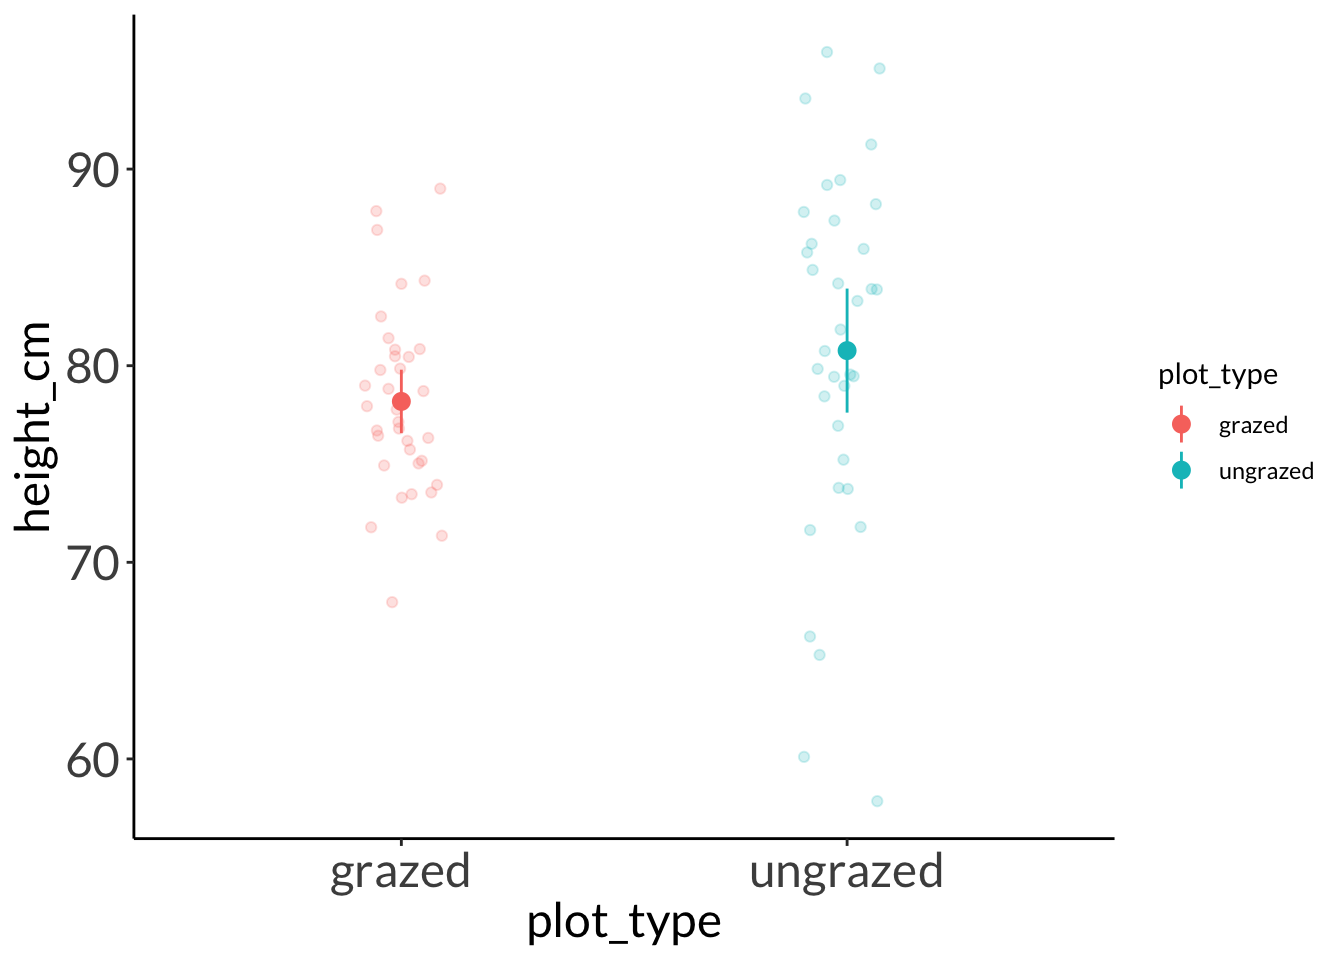
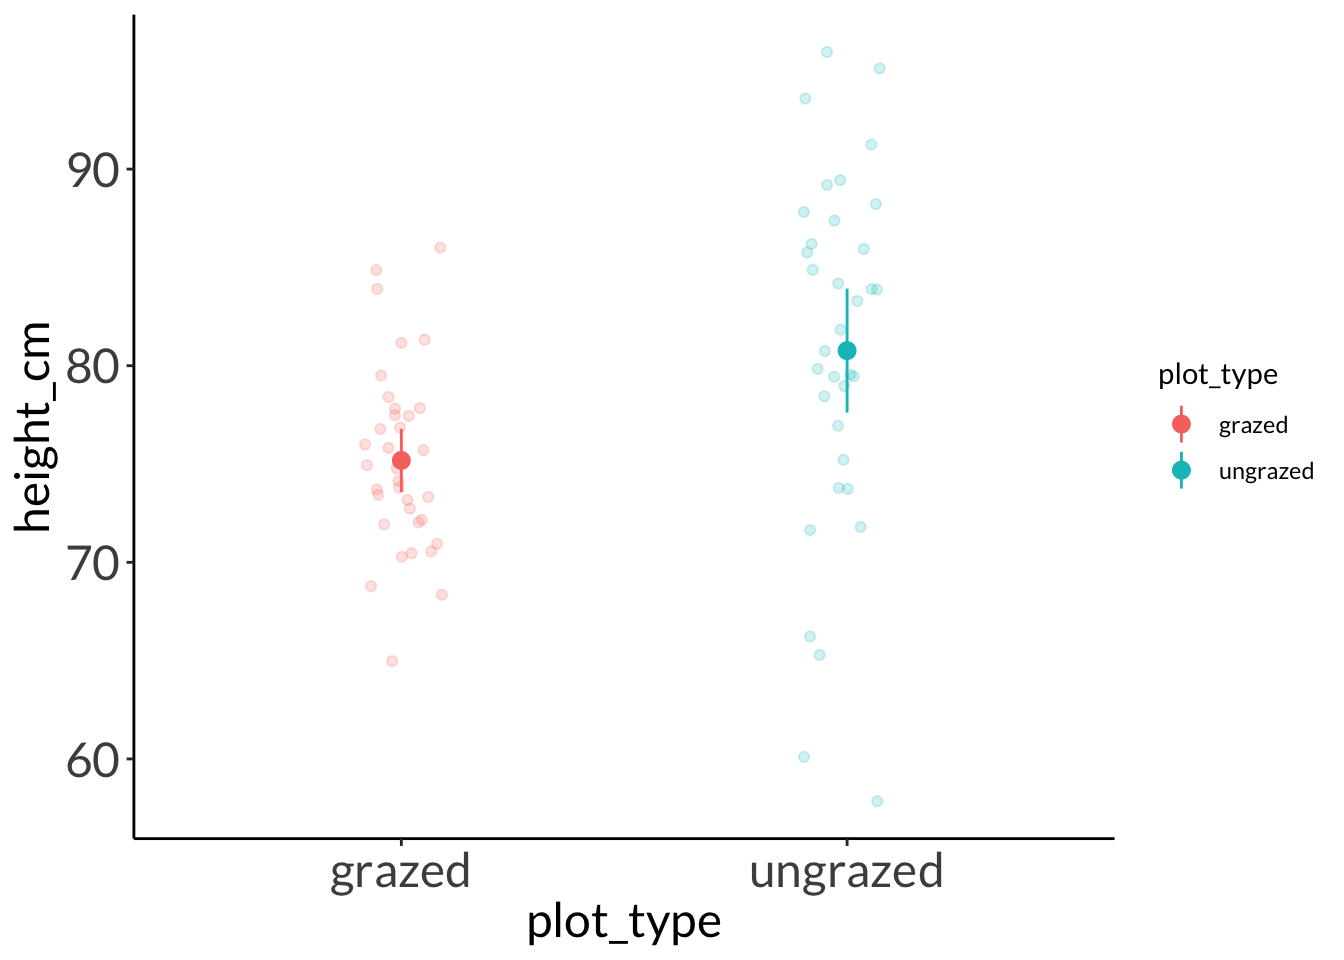
now maybe done with week 4?

Changed region(s): [[0.25, 0.3438, 0.3438, 0.5938], [0.2812, 0.2812, 0.3125, 0.3125]]

diff --git a/docs/lecture/lecture_week-04.html b/docs/lecture/lecture_week-04.html
@@ -353,13 +353,13 @@ SE_{\bar{y_A} - \bar{y_B}} = \sqrt{\frac{s_A^2}{n_A}+\frac{s_B^2}{n_B}}
     F test to compare two variances
 
 data:  weight_g by sun_level
-F = 0.30386, num df = 32, denom df = 32, p-value = 0.001146
+F = 0.27041, num df = 32, denom df = 32, p-value = 0.0003828
 alternative hypothesis: true ratio of variances is not equal to 1
 95 percent confidence interval:
- 0.1500705 0.6152302
+ 0.1335533 0.5475161
 sample estimates:
 ratio of variances 
-         0.3038551 </code></pre>
+         0.2704119 </code></pre>
 </div>
 <details class="code-fold">
 <summary>Code</summary>
@@ -372,13 +372,13 @@ ratio of variances
     Welch Two Sample t-test
 
 data:  weight_g by sun_level
-t = -5.3652, df = 49.803, p-value = 2.102e-06
+t = -5.832, df = 48.127, p-value = 4.486e-07
 alternative hypothesis: true difference in means between group shaded and group sunny is not equal to 0
 95 percent confidence interval:
- -25.77569 -11.73252
+ -26.75666 -13.03796
 sample estimates:
 mean in group shaded  mean in group sunny 
-            129.3133             148.0675 </code></pre>
+            132.3540             152.2513 </code></pre>
 </div>
 </div>
 </section>
@@ -454,13 +454,13 @@ NOTE: n is number in *each* group</code></pre>
     F test to compare two variances
 
 data:  weight_g by compost_bin
-F = 2.4378, num df = 33, denom df = 33, p-value = 0.01241
+F = 1.9613, num df = 33, denom df = 33, p-value = 0.0571
 alternative hypothesis: true ratio of variances is not equal to 1
 95 percent confidence interval:
- 1.217517 4.881286
+ 0.9795004 3.9270284
 sample estimates:
 ratio of variances 
-          2.437837 </code></pre>
+          1.961256 </code></pre>
 </div>
 <details class="code-fold">
 <summary>Code</summary>
@@ -473,13 +473,13 @@ ratio of variances
     Welch Two Sample t-test
 
 data:  weight_g by compost_bin
-t = -3.731, df = 56.174, p-value = 0.0004462
+t = -5.5277, df = 59.708, p-value = 7.52e-07
 alternative hypothesis: true difference in means between group citrus and group non_citrus is not equal to 0
 95 percent confidence interval:
- -27.99445  -8.43583
+ -31.10719 -14.57482
 sample estimates:
     mean in group citrus mean in group non_citrus 
-                140.8332                 159.0483 </code></pre>
+                139.0542                 161.8952 </code></pre>
 </div>
 </div>
 </section>
@@ -545,7 +545,7 @@ mean in group a mean in group b
 <summary>Code</summary>
 <div class="sourceCode cell-code" id="cb20"><pre class="sourceCode r code-with-copy"><code class="sourceCode r"><span id="cb20-1"><a href="#cb20-1" aria-hidden="true" tabindex="-1"></a><span class="fu">set.seed</span>(<span class="dv">1</span>)</span>
 <span id="cb20-2"><a href="#cb20-2" aria-hidden="true" tabindex="-1"></a>needlegrass <span class="ot">&lt;-</span> <span class="fu">cbind</span>(<span class="at">ungrazed =</span> <span class="fu">rnorm</span>(<span class="at">n =</span> <span class="dv">35</span>, <span class="at">mean =</span> <span class="dv">80</span>, <span class="at">sd =</span> <span class="dv">10</span>), </span>
-<span id="cb20-3"><a href="#cb20-3" aria-hidden="true" tabindex="-1"></a>                     <span class="at">grazed =</span> <span class="fu">rnorm</span>(<span class="at">n =</span> <span class="dv">35</span>, <span class="at">mean =</span> <span class="dv">77</span>, <span class="at">sd =</span> <span class="dv">5</span>)) <span class="sc">%&gt;%</span> </span>
+<span id="cb20-3"><a href="#cb20-3" aria-hidden="true" tabindex="-1"></a>                     <span class="at">grazed =</span> <span class="fu">rnorm</span>(<span class="at">n =</span> <span class="dv">35</span>, <span class="at">mean =</span> <span class="dv">74</span>, <span class="at">sd =</span> <span class="dv">5</span>)) <span class="sc">%&gt;%</span> </span>
 <span id="cb20-4"><a href="#cb20-4" aria-hidden="true" tabindex="-1"></a>  <span class="fu">as_tibble</span>() <span class="sc">%&gt;%</span> </span>
 <span id="cb20-5"><a href="#cb20-5" aria-hidden="true" tabindex="-1"></a>  <span class="fu">pivot_longer</span>(<span class="at">cols =</span> <span class="dv">1</span><span class="sc">:</span><span class="dv">2</span>, <span class="at">names_to =</span> <span class="st">"plot_type"</span>, <span class="at">values_to =</span> <span class="st">"height_cm"</span>)</span>
 <span id="cb20-6"><a href="#cb20-6" aria-hidden="true" tabindex="-1"></a></span>
@@ -623,13 +623,13 @@ ratio of variances
     Welch Two Sample t-test
 
 data:  height_cm by plot_type
-t = -1.4824, df = 50.644, p-value = 0.1444
+t = -3.2032, df = 50.644, p-value = 0.002351
 alternative hypothesis: true difference in means between group grazed and group ungrazed is not equal to 0
 95 percent confidence interval:
- -6.0848362  0.9161934
+ -9.084836 -2.083807
 sample estimates:
   mean in group grazed mean in group ungrazed 
-              78.18323               80.76756 </code></pre>
+              75.18323               80.76756 </code></pre>
 </div>
 </div>
 <p>Cohen’s d:</p>
@@ -641,9 +641,9 @@ sample estimates:
 <span id="cb26-3"><a href="#cb26-3" aria-hidden="true" tabindex="-1"></a>       <span class="at">data =</span> needlegrass)</span></code><button title="Copy to Clipboard" class="code-copy-button"><i class="bi"></i></button></pre></div>
 </details>
 <div class="cell-output cell-output-stdout">
-<pre><code>Cohen's d |        95% CI
--------------------------
--0.35     | [-0.83, 0.12]
+<pre><code>Cohen's d |         95% CI
+--------------------------
+-0.77     | [-1.25, -0.28]
 
 - Estimated using pooled SD.</code></pre>
 </div>
@@ -655,9 +655,9 @@ sample estimates:
 <span id="cb28-4"><a href="#cb28-4" aria-hidden="true" tabindex="-1"></a>       <span class="at">pooled_sd =</span> <span class="cn">FALSE</span>)</span></code><button title="Copy to Clipboard" class="code-copy-button"><i class="bi"></i></button></pre></div>
 </details>
 <div class="cell-output cell-output-stdout">
-<pre><code>Cohen's d |        95% CI
--------------------------
--0.35     | [-0.83, 0.12]
+<pre><code>Cohen's d |         95% CI
+--------------------------
+-0.77     | [-1.25, -0.27]
 
 - Estimated using un-pooled SD.</code></pre>
 </div>
@@ -684,7 +684,7 @@ sample estimates:
 <span id="cb30-19"><a href="#cb30-19" aria-hidden="true" tabindex="-1"></a>(ya <span class="sc">-</span> yb)<span class="sc">/</span><span class="fu">sqrt</span>((vara <span class="sc">+</span> varb)<span class="sc">/</span><span class="dv">2</span>)</span></code><button title="Copy to Clipboard" class="code-copy-button"><i class="bi"></i></button></pre></div>
 </details>
 <div class="cell-output cell-output-stdout">
-<pre><code>[1] -0.3543589</code></pre>
+<pre><code>[1] -0.7657151</code></pre>
 </div>
 <details class="code-fold">
 <summary>Code</summary>
@@ -693,7 +693,7 @@ sample estimates:
 <span id="cb32-3"><a href="#cb32-3" aria-hidden="true" tabindex="-1"></a>)</span></code><button title="Copy to Clipboard" class="code-copy-button"><i class="bi"></i></button></pre></div>
 </details>
 <div class="cell-output cell-output-stdout">
-<pre><code>[1] -0.3543589</code></pre>
+<pre><code>[1] -0.7657151</code></pre>
 </div>
 </div>
 
@@ -1346,7 +1346,7 @@ window.document.addEventListener("DOMContentLoaded", function (event) {
 <span id="cb34-172"><a href="#cb34-172" aria-hidden="true" tabindex="-1"></a><span class="in">```{r needlegrass}</span></span>
 <span id="cb34-173"><a href="#cb34-173" aria-hidden="true" tabindex="-1"></a><span class="in">set.seed(1)</span></span>
 <span id="cb34-174"><a href="#cb34-174" aria-hidden="true" tabindex="-1"></a><span class="in">needlegrass &lt;- cbind(ungrazed = rnorm(n = 35, mean = 80, sd = 10), </span></span>
-<span id="cb34-175"><a href="#cb34-175" aria-hidden="true" tabindex="-1"></a><span class="in">                     grazed = rnorm(n = 35, mean = 77, sd = 5)) %&gt;% </span></span>
+<span id="cb34-175"><a href="#cb34-175" aria-hidden="true" tabindex="-1"></a><span class="in">                     grazed = rnorm(n = 35, mean = 74, sd = 5)) %&gt;% </span></span>
 <span id="cb34-176"><a href="#cb34-176" aria-hidden="true" tabindex="-1"></a><span class="in">  as_tibble() %&gt;% </span></span>
 <span id="cb34-177"><a href="#cb34-177" aria-hidden="true" tabindex="-1"></a><span class="in">  pivot_longer(cols = 1:2, names_to = "plot_type", values_to = "height_cm")</span></span>
 <span id="cb34-178"><a href="#cb34-178" aria-hidden="true" tabindex="-1"></a></span>

diff --git a/docs/lecture.html b/docs/lecture.html
@@ -317,7 +317,7 @@ window.Quarto = {
 </td>
 
 </tr>
-<tr data-index="3" data-categories="" data-listing-date-sort="1713682800000" data-listing-file-modified-sort="1713760993973" data-listing-date-modified-sort="1713760993000" data-listing-reading-time-sort="6" data-listing-word-count-sort="1138" data-listing-title-sort="Week 4 figures - Lectures 7 and 8" data-listing-filename-sort="lecture_week-04.qmd">
+<tr data-index="3" data-categories="" data-listing-date-sort="1713682800000" data-listing-file-modified-sort="1713761373825" data-listing-date-modified-sort="1713761373000" data-listing-reading-time-sort="6" data-listing-word-count-sort="1138" data-listing-title-sort="Week 4 figures - Lectures 7 and 8" data-listing-filename-sort="lecture_week-04.qmd">
 <td>
 <a href="./lecture/lecture_week-04.html" class="title listing-title">Week 4 figures - Lectures 7 and 8</a>
 </td>

diff --git a/docs/assignments/getting-set-up.html b/docs/assignments/getting-set-up.html
@@ -925,7 +925,7 @@ window.document.addEventListener("DOMContentLoaded", function (event) {
 <span id="cb1-99"><a href="#cb1-99" aria-hidden="true" tabindex="-1"></a></span></code><button title="Copy to Clipboard" class="code-copy-button"><i class="bi"></i></button></pre></div>
 </div></div></div></div></div>
 </div> <!-- /content -->
-<script>var lightboxQuarto = GLightbox({"closeEffect":"zoom","selector":".lightbox","loop":false,"openEffect":"zoom","descPosition":"bottom"});
+<script>var lightboxQuarto = GLightbox({"selector":".lightbox","closeEffect":"zoom","loop":false,"descPosition":"bottom","openEffect":"zoom"});
 window.onload = () => {
   lightboxQuarto.on('slide_before_load', (data) => {
     const { slideIndex, slideNode, slideConfig, player, trigger } = data;

diff --git a/docs/index.html b/docs/index.html
@@ -784,7 +784,7 @@ window.document.addEventListener("DOMContentLoaded", function (event) {
 <span id="cb1-73"><a href="#cb1-73" aria-hidden="true" tabindex="-1"></a></span></code><button title="Copy to Clipboard" class="code-copy-button"><i class="bi"></i></button></pre></div>
 </div></div></div></div></div>
 </div> <!-- /content -->
-<script>var lightboxQuarto = GLightbox({"openEffect":"zoom","descPosition":"bottom","closeEffect":"zoom","selector":".lightbox","loop":false});
+<script>var lightboxQuarto = GLightbox({"closeEffect":"zoom","loop":false,"openEffect":"zoom","descPosition":"bottom","selector":".lightbox"});
 window.onload = () => {
   lightboxQuarto.on('slide_before_load', (data) => {
     const { slideIndex, slideNode, slideConfig, player, trigger } = data;

diff --git a/docs/resources/using-virtual-machine.html b/docs/resources/using-virtual-machine.html
@@ -821,7 +821,7 @@ window.document.addEventListener("DOMContentLoaded", function (event) {
 <span id="cb1-85"><a href="#cb1-85" aria-hidden="true" tabindex="-1"></a></span></code><button title="Copy to Clipboard" class="code-copy-button"><i class="bi"></i></button></pre></div>
 </div></div></div></div></div>
 </div> <!-- /content -->
-<script>var lightboxQuarto = GLightbox({"closeEffect":"zoom","selector":".lightbox","descPosition":"bottom","openEffect":"zoom","loop":false});
+<script>var lightboxQuarto = GLightbox({"loop":false,"selector":".lightbox","descPosition":"bottom","openEffect":"zoom","closeEffect":"zoom"});
 window.onload = () => {
   lightboxQuarto.on('slide_before_load', (data) => {
     const { slideIndex, slideNode, slideConfig, player, trigger } = data;
